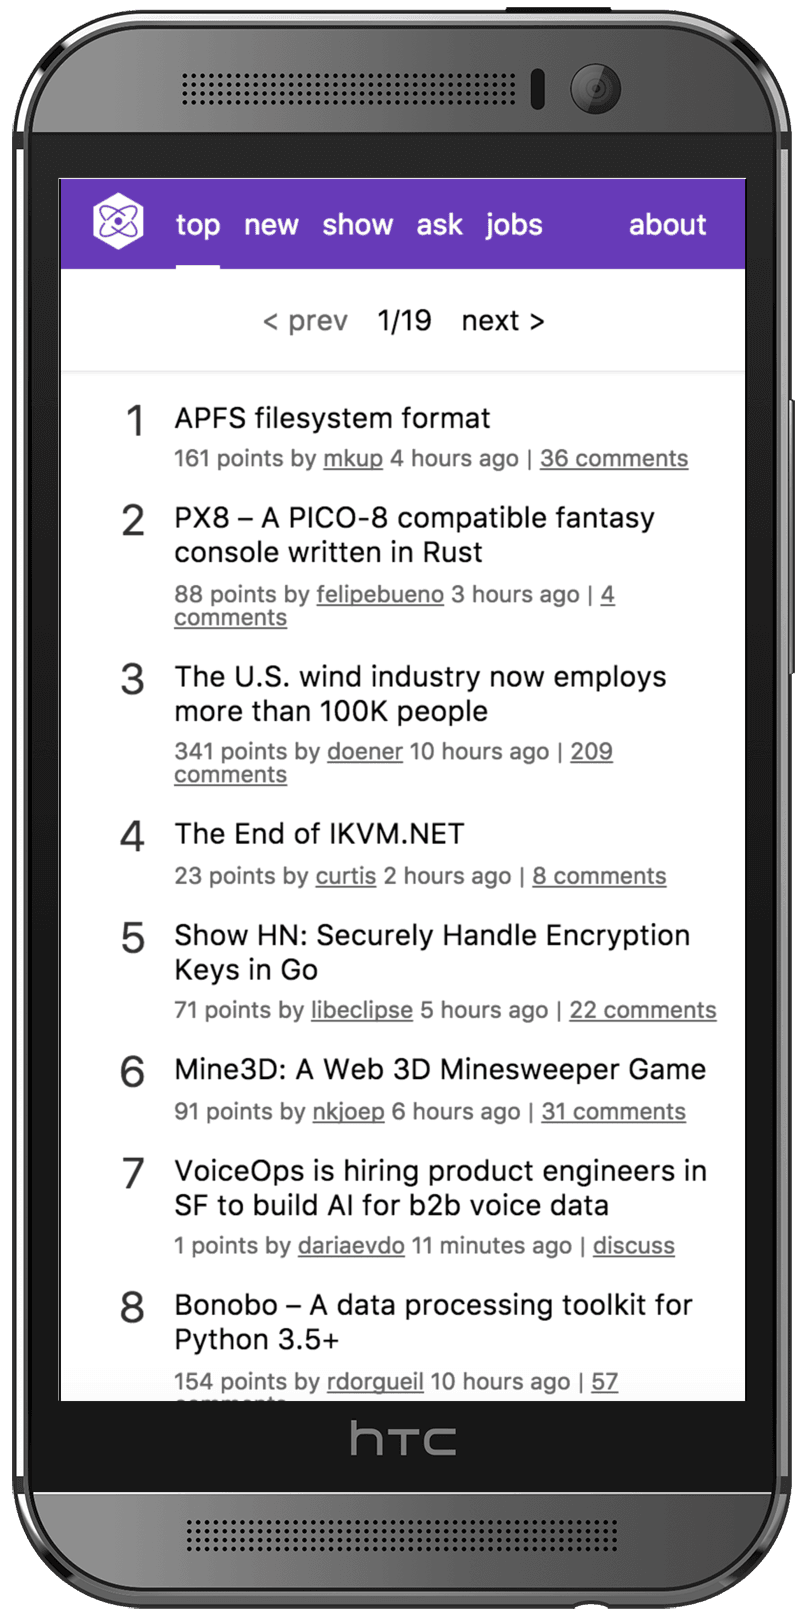
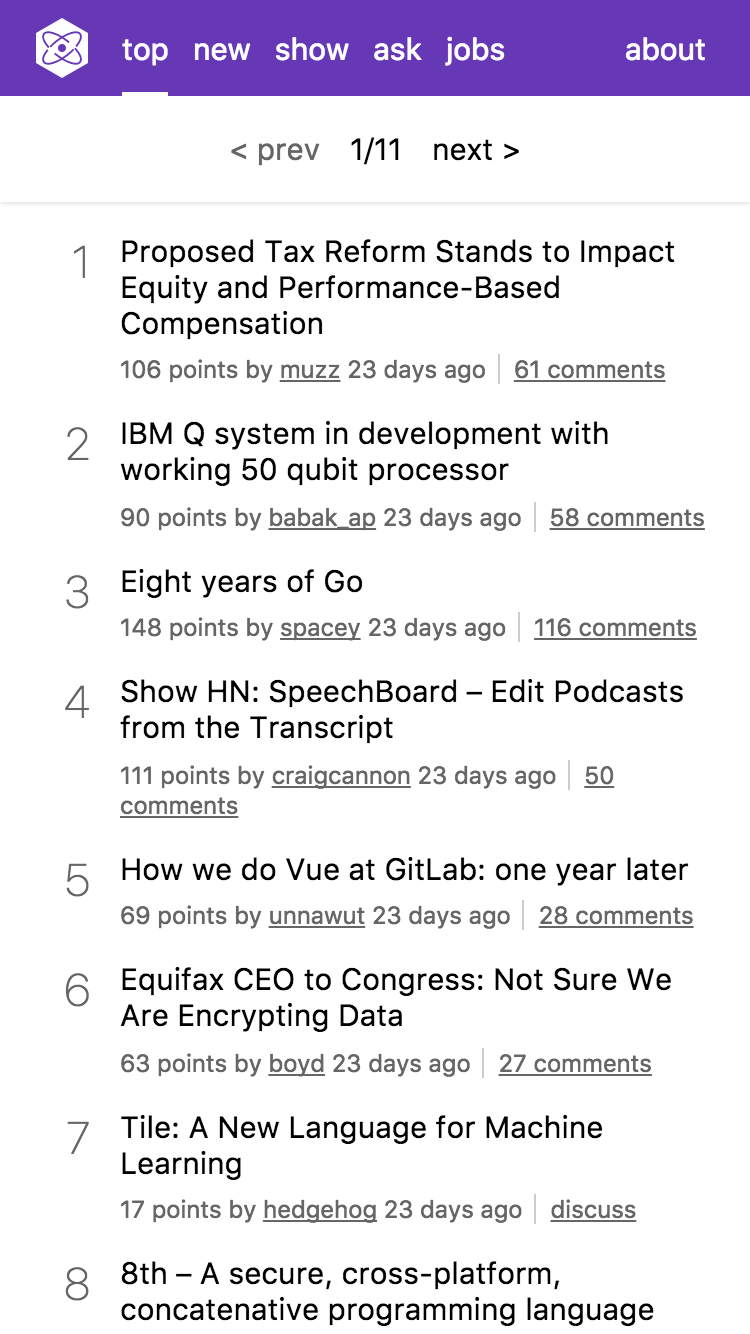
Add phone outline, re-shoot and process images

diff --git a/site/_sass/extra.scss b/site/_sass/extra.scss
@@ -73,3 +73,48 @@ $primary-orange: #F4751E;
     }
   }
 }
+
+.phone-outline {
+  padding: 3.5rem .5rem 3rem;
+  background-color: #111;
+  border-radius: 2rem;
+  position: relative;
+
+  &:after {
+    content: "";
+    position: absolute;
+    height: .25rem;
+    width: 33%;
+    top: 1.75rem;
+    background-color: #222;
+    left: 50%;
+    transform: translateX(-50%);
+    border-radius: .125rem;
+  }
+
+  &:before {
+    content: "";
+    position: absolute;
+    height: .5rem;
+    width: .5rem;
+    top: 1.65rem;
+    background-color: #222;
+    left: 20%;
+    transform: translateX(-50%);
+    border-radius: .25rem;
+  }
+
+  img {
+    border-radius: 2px;
+  }
+}
+
+.phone-outline-power {
+  position: absolute;
+  right: -.1rem;
+  top: 20%;
+  width: .3rem;
+  height: 3rem;
+  background-color: #000;
+  border-radius: .15rem;
+}

diff --git a/site/_includes/implementation.html b/site/_includes/implementation.html
@@ -134,7 +134,10 @@
       <div class="fl-l dn db-l">
         <div class="flex h-100 items-center">
           <a class="link" href={{ app.app-link }}>
-            <img class="grow w5" src={{ app.image | relative_url }} alt="{{ app.title }} HN PWA running on a mobile phone">
+             <div class="phone-outline grow">
+              <div class="phone-outline-power"></div>
+              <img class="w5" src={{ app.image | relative_url }} alt="{{ app.title }} HN PWA running on a mobile phone">
+            </div>
           </a>
         </div>
       </div>
